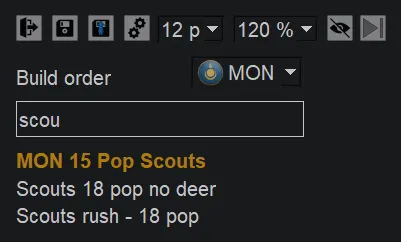
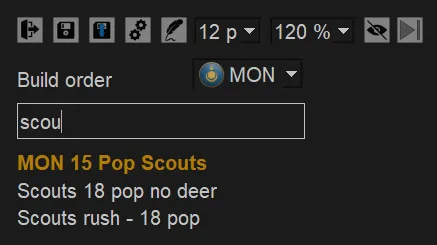
add feather button to open build order folder (python)

diff --git a/python/common/rts_overlay.py b/python/common/rts_overlay.py
@@ -2,6 +2,7 @@ import os
 import json
 import time
 import appdirs
+import subprocess
 from math import floor
 from enum import Enum
 from copy import deepcopy
@@ -314,6 +315,14 @@ class RTSGameOverlay(QMainWindow):
             tooltip='configure hotkeys',
         )
 
+        self.open_build_order_button = TwinHoverButton(
+            parent=self,
+            click_connect=lambda: subprocess.run(['explorer', self.directory_build_orders]),
+            icon=QIcon(os.path.join(self.directory_common_pictures, images.open_build_order_folder)),
+            button_qsize=action_button_qsize,
+            tooltip='open build order folder',
+        )
+
         # build order panel buttons
         bo_previous_tooltip = (
             'previous build order step / -1 sec' if build_order_timer_available else 'previous build order step'
@@ -520,6 +529,10 @@ class RTSGameOverlay(QMainWindow):
 
         self.config_hotkey_button.update_icon_size(
             QIcon(os.path.join(self.directory_common_pictures, images.config_hotkeys)), action_button_qsize
+        )
+
+        self.open_build_order_button.update_icon_size(
+            QIcon(os.path.join(self.directory_common_pictures, images.open_build_order_folder)), action_button_qsize
         )
 
         # build order panel buttons
@@ -848,6 +861,7 @@ class RTSGameOverlay(QMainWindow):
         self.config_save_button.close()
         self.config_reload_button.close()
         self.config_hotkey_button.close()
+        self.open_build_order_button.close()
 
         self.next_panel_button.close()
         self.hide_panel_button.close()
@@ -1079,6 +1093,7 @@ class RTSGameOverlay(QMainWindow):
                 self.config_save_button.hovering_show(self.is_mouse_in_roi_widget)
                 self.config_reload_button.hovering_show(self.is_mouse_in_roi_widget)
                 self.config_hotkey_button.hovering_show(self.is_mouse_in_roi_widget)
+                self.open_build_order_button.hovering_show(self.is_mouse_in_roi_widget)
 
             elif self.selected_panel == PanelID.BUILD_ORDER:  # build order specific buttons
                 self.build_order_previous_button.hovering_show(self.is_mouse_in_roi_widget)
@@ -1493,6 +1508,7 @@ class RTSGameOverlay(QMainWindow):
         self.config_save_button.hide()
         self.config_reload_button.hide()
         self.config_hotkey_button.hide()
+        self.open_build_order_button.hide()
 
         self.build_order_step_time.hide()
         self.build_order_previous_button.hide()
@@ -1536,6 +1552,7 @@ class RTSGameOverlay(QMainWindow):
         self.config_save_button.show()
         self.config_reload_button.show()
         self.config_hotkey_button.show()
+        self.open_build_order_button.show()
         self.font_size_input.show()
         self.scaling_input.show()
         self.next_panel_button.show()
@@ -1559,6 +1576,8 @@ class RTSGameOverlay(QMainWindow):
         self.config_reload_button.move(next_x, border_size)
         next_x += action_button_size + action_button_spacing
         self.config_hotkey_button.move(next_x, border_size)
+        next_x += action_button_size + action_button_spacing
+        self.open_build_order_button.move(next_x, border_size)
         next_x += action_button_size + horizontal_spacing
         self.font_size_input.move(next_x, border_size)
         next_x += self.font_size_input.width() + horizontal_spacing

diff --git a/python/common/rts_overlay_images.py b/python/common/rts_overlay_images.py
@@ -12,6 +12,7 @@ class RTSOverlayImages:
         self.save: str = 'action_button/save.webp'  # save the settings
         self.load: str = 'action_button/load.webp'  # load the settings
         self.config_hotkeys: str = 'action_button/gears.webp'  # configure the hotkeys
+        self.open_build_order_folder: str = 'action_button/feather.webp'  # open build order folder
         self.write_build_order: str = 'action_button/feather.webp'  # write a build order
         self.time: str = 'icon/time.webp'  # time for build order
         self.mouse: str = 'icon/mouse.webp'  # mouse

diff --git a/Changelog.md b/Changelog.md
@@ -1,3 +1,9 @@
+# [2.12.0] - in progress
+* Python
+    * Add feather button to open build order folder.
+* AoE4
+    * Add the Jin Dynasty civilization.
+
 ## [2.11.2] - 2026.05.02
 * Web
     * Add RTS Builds links to sc2 and wc3